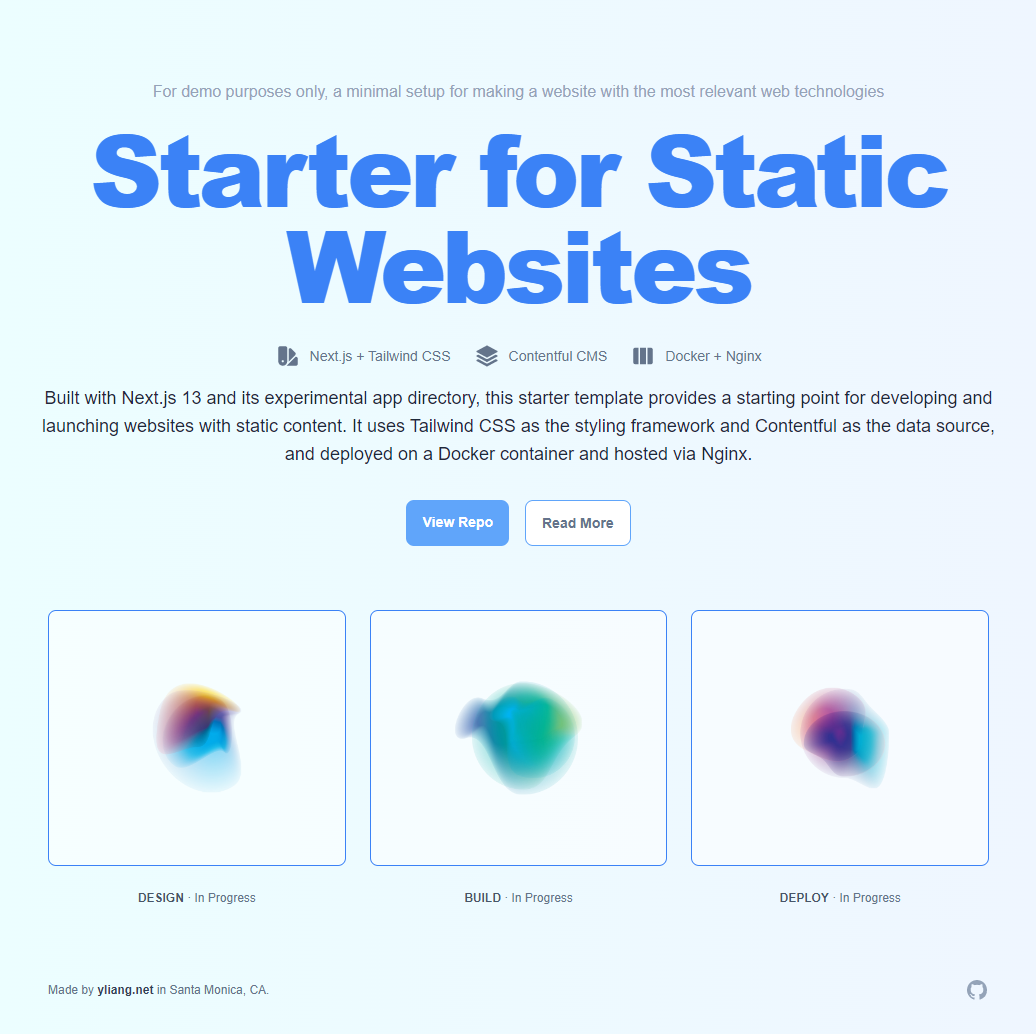
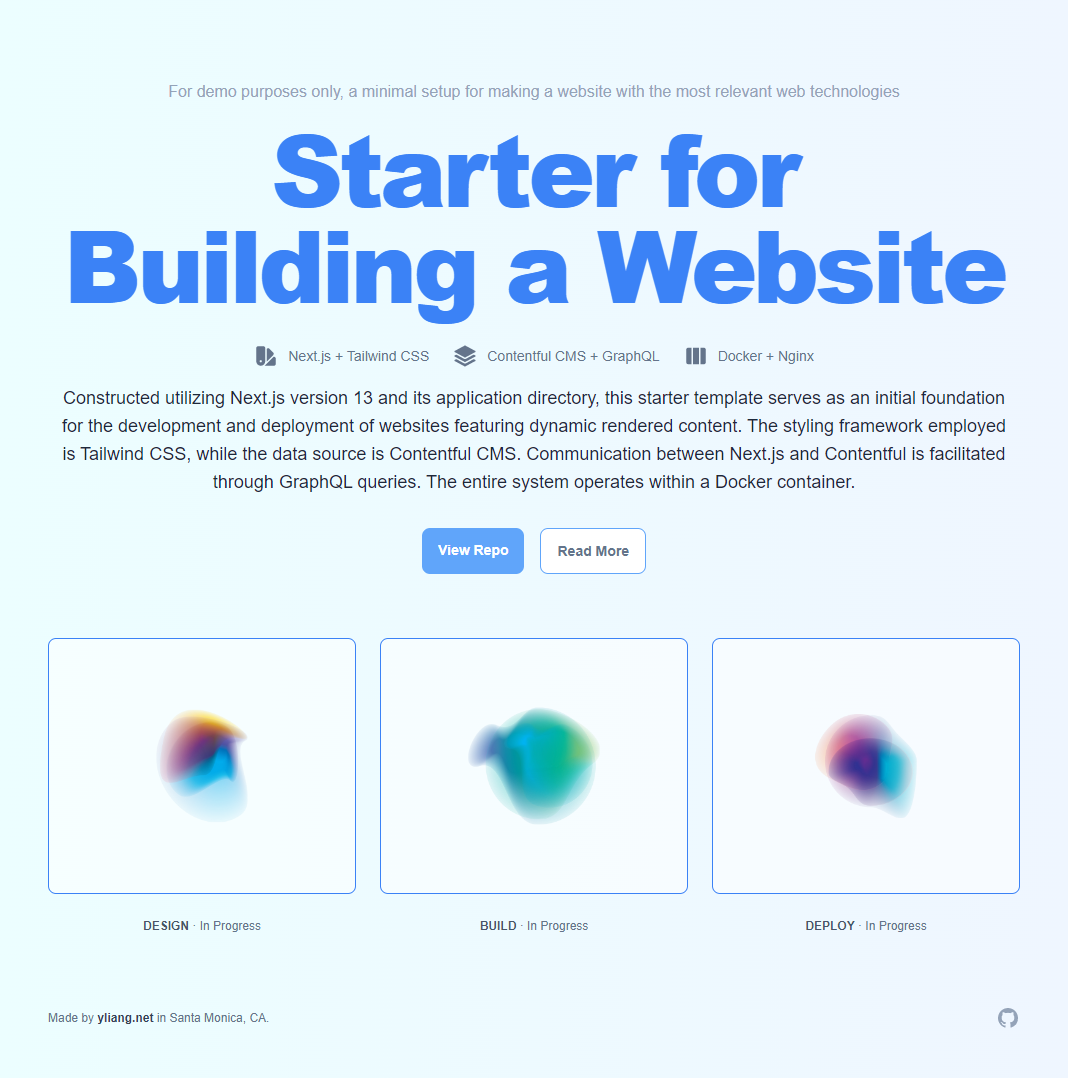
add readme

diff --git a/app/ui/header.tsx b/app/ui/header.tsx
@@ -37,7 +37,7 @@ export default function Header(
                         <path d="M10.933 19.231l-7.668-4.13-1.37.739a.75.75 0 000 1.32l9.75 5.25c.221.12.489.12.71 0l9.75-5.25a.75.75 0 000-1.32l-1.37-.738-7.668 4.13a2.25 2.25 0 01-2.134-.001z" />
                      </svg>
                      <span className="ml-2.5">
-                        { categories[2] }
+                        { categories[2] }&nbsp;+&nbsp;{ categories[3] }
                      </span>
                   </div>
                   <div className="flex items-center text-sm font-medium text-slate-500 ml-6">
@@ -45,7 +45,7 @@ export default function Header(
                         <path d="M15 3.75H9v16.5h6V3.75zM16.5 20.25h3.375c1.035 0 1.875-.84 1.875-1.875V5.625c0-1.036-.84-1.875-1.875-1.875H16.5v16.5zM4.125 3.75H7.5v16.5H4.125a1.875 1.875 0 01-1.875-1.875V5.625c0-1.036.84-1.875 1.875-1.875z" />
                      </svg>
                      <span className="ml-2.5">
-                        { categories[3] }&nbsp;+&nbsp;{ categories[4] }
+                        { categories[4] }&nbsp;+&nbsp;{ categories[5] }
                      </span>
                   </div>
                </div>

diff --git a/app/layout.tsx b/app/layout.tsx
@@ -3,7 +3,7 @@ import './globals.css';
 
 export const metadata = {
   title: 'Starter for Building a Website',
-  description: 'Minimal setup for building a website with Next.js, Tailwind CSS, Contentful CMS, GraphQL, Docker, Nginx',
+  description: 'Build with Next.js, Tailwind CSS, Contentful CMS, GraphQL, Docker, Nginx',
 };
 
 export default function RootLayout(
